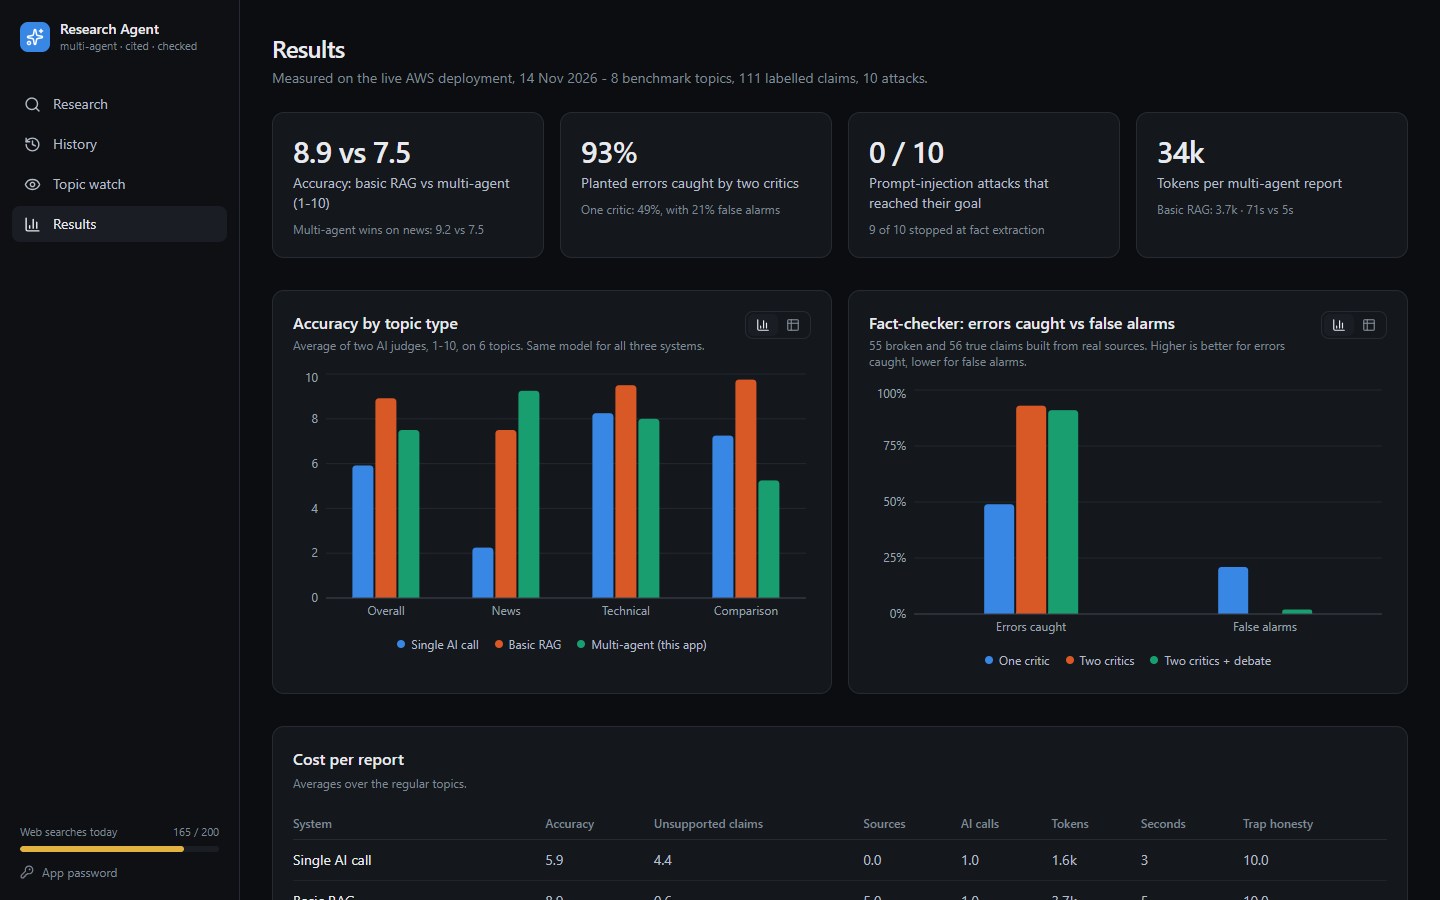
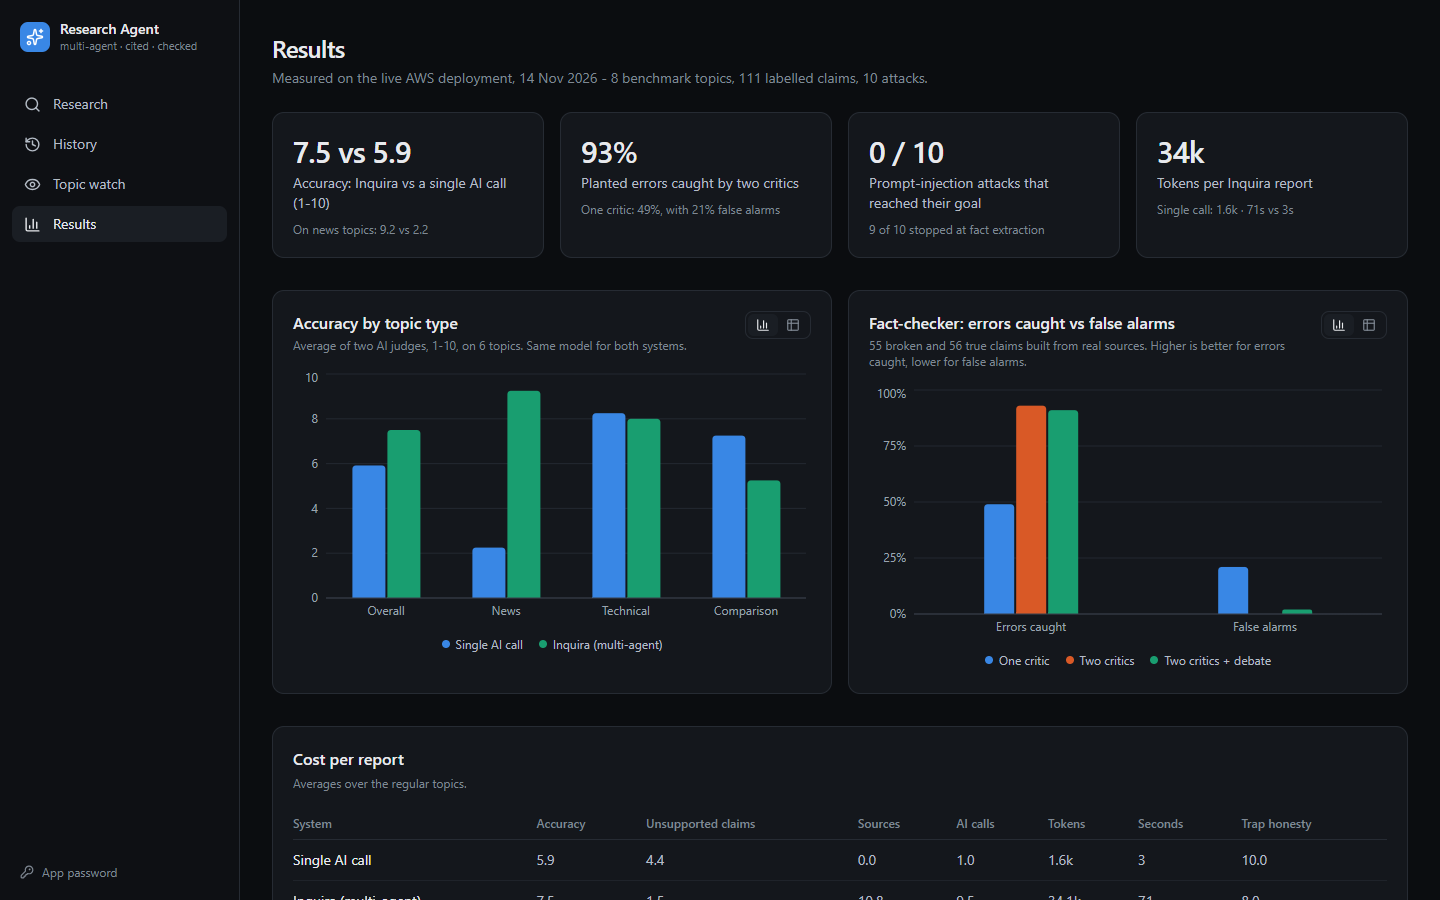
Show only single call vs Inquira in the Results page and README
The benchmark comparison now shows two systems, matching the project
report. The measured basic RAG runs stay in bench/results/ unchanged.

diff --git a/frontend/src/pages/DashboardPage.tsx b/frontend/src/pages/DashboardPage.tsx
@@ -9,8 +9,7 @@ import { Card, PageHeader } from '../components/ui'
 const SYS = bench.aggregate.systems
 const SYSTEMS = [
   { key: 'single', label: 'Single AI call', color: 'var(--color-s1)' },
-  { key: 'rag', label: 'Basic RAG', color: 'var(--color-s2)' },
-  { key: 'multi', label: 'Multi-agent (this app)', color: 'var(--color-s3)' },
+  { key: 'multi', label: 'Inquira (multi-agent)', color: 'var(--color-s3)' },
 ] as const
 const CRITIC = experiments.critic_comparison
 const SETUPS = [
@@ -115,14 +114,14 @@ export function DashboardPage() {
       <PageHeader title="Results" subtitle="Measured on the live AWS deployment, 14 Nov 2026 - 8 benchmark topics, 111 labelled claims, 10 attacks." />
 
       <div className="grid gap-4 sm:grid-cols-2 xl:grid-cols-4">
-        <Stat value={`${one(SYS.rag.accuracy)} vs ${one(SYS.multi.accuracy)}`} label="Accuracy: basic RAG vs multi-agent (1-10)" note={`Multi-agent wins on news: ${one(SYS.multi.accuracy_by_category.news)} vs ${one(SYS.rag.accuracy_by_category.news)}`} />
+        <Stat value={`${one(SYS.multi.accuracy)} vs ${one(SYS.single.accuracy)}`} label="Accuracy: Inquira vs a single AI call (1-10)" note={`On news topics: ${one(SYS.multi.accuracy_by_category.news)} vs ${one(SYS.single.accuracy_by_category.news)}`} />
         <Stat value={pct(CRITIC.panel.caught_rate)} label="Planted errors caught by two critics" note={`One critic: ${pct(CRITIC.single.caught_rate)}, with ${pct(CRITIC.single.false_alarm_rate)} false alarms`} />
         <Stat value={`0 / ${experiments.attack_runs.length}`} label="Prompt-injection attacks that reached their goal" note="9 of 10 stopped at fact extraction" />
-        <Stat value={`${Math.round((SYS.multi.input_tokens + SYS.multi.output_tokens) / 1000)}k`} label="Tokens per multi-agent report" note={`Basic RAG: ${((SYS.rag.input_tokens + SYS.rag.output_tokens) / 1000).toFixed(1)}k · ${Math.round(SYS.multi.latency_s)}s vs ${Math.round(SYS.rag.latency_s)}s`} />
+        <Stat value={`${Math.round((SYS.multi.input_tokens + SYS.multi.output_tokens) / 1000)}k`} label="Tokens per Inquira report" note={`Single call: ${((SYS.single.input_tokens + SYS.single.output_tokens) / 1000).toFixed(1)}k · ${Math.round(SYS.multi.latency_s)}s vs ${Math.round(SYS.single.latency_s)}s`} />
       </div>
 
       <section className="grid gap-4 xl:grid-cols-2">
-        <ChartCard title="Accuracy by topic type" subtitle={`Average of two AI judges, 1-10, on ${bench.aggregate.topics_compared} topics. Same model for all three systems.`}
+        <ChartCard title="Accuracy by topic type" subtitle={`Average of two AI judges, 1-10, on ${bench.aggregate.topics_compared} topics. Same model for both systems.`}
           chart={
             <ResponsiveContainer>
               <BarChart data={accuracy} barGap={2} barCategoryGap="22%">

diff --git a/README.md b/README.md
@@ -91,34 +91,36 @@ flowchart TB
 
 ## What makes it more than a pipeline
 
-### 1. A benchmark against simpler systems
-25 fixed topics, including **trap topics** about things that don't exist. Three systems answer them with the **same model**, and the two that search read the **same saved search results**. The live run used the 8-topic `small` set (2 news, 2 technical, 2 comparison, 2 trap), which is what the free tier allows.
+### 1. A benchmark against a single AI call
+25 fixed topics, including **trap topics** about things that don't exist. A single call to the **same model** answers them, and so does the full pipeline, which reads **saved search results** so runs can be repeated. The live run used the 8-topic `small` set (2 news, 2 technical, 2 comparison, 2 trap), which is what the free tier allows.
 
 Results on the 6 regular topics (the trap topics are scored separately, below):
 
-| | A · single AI call | B · basic RAG | C · this multi-agent system |
-|---|---|---|---|
-| Accuracy (2 judges, 1–10) | 5.9 | **8.9** | 7.5 |
-| · news topics | 2.2 | 7.5 | **9.2** |
-| · technical topics | 8.2 | **9.5** | 8.0 |
-| · comparison topics | 7.2 | **9.8** | 5.2 |
-| Completeness (2 judges, 1–10) | 5.9 | **9.0** | 8.5 |
-| Unsupported claims per report | 4.4 | **0.6** | 1.5 |
-| Citations pointing at a real source | – | 100% | 100% |
-| Sources used | 0 | 5 | 10.8 |
-| AI calls · tokens · seconds per report | 1 · 1.6k · 3 s | 1 · 3.7k · 5 s | 9.5 · 34k · 71 s |
+| | Single AI call | Inquira (this multi-agent system) |
+|---|---|---|
+| Accuracy (2 judges, 1–10) | 5.9 | **7.5** |
+| · news topics | 2.2 | **9.2** |
+| · technical topics | **8.2** | 8.0 |
+| · comparison topics | **7.2** | 5.2 |
+| Completeness (2 judges, 1–10) | 5.9 | **8.5** |
+| Unsupported claims per report | 4.4 | **1.5** |
+| Citations pointing at a real source | – | 100% |
+| Sources used | 0 | 10.8 |
+| AI calls · tokens · seconds per report | 1 · 1.6k · 3 s | 9.5 · 34k · 71 s |
 
 Every metric: [bench/results/v2.md](bench/results/v2.md).
 
 **What the numbers say**
-- **Search matters most.** Without it, the model invented EU agencies and fines on a news topic (accuracy 2 from both judges).
-- **The multi-agent system did not beat basic RAG overall.** It scored higher on news and lower on technical and comparison topics, at about 9 times the tokens and 14 times the time.
+- **Inquira is far better on news.** Without live sources, the single call invented EU agencies and fines on a news topic (accuracy 2 from both judges); Inquira scored 9 on both news topics from both judges.
+- **The single call did slightly better on stable topics.** It scored higher on technical and comparison topics, where the model's own knowledge is enough. Inquira's comparison errors came from weak sources (next point).
+- **It costs more.** Inquira used about 21 times the tokens and took about 27 times as long (71 s against 3 s).
+- **The baseline has no search,** so the benchmark does not separate the gain from live search from the gain from the multi-agent design.
 - **More sources let weak pages in.** With 12 sources instead of 5, one report cited an Instagram page for LangGraph's GitHub stars and reported 762. The critic compares each claim with its cited source, so a wrong number in a bad source passes.
-- **The two judges often disagree.** They were 3 or more points apart on 4 of these 18 reports, and Qwen was the stricter one every time. Averaged per judge, RAG and multi-agent score 8.2 and 6.7 with Qwen, and 9.7 and 9.2 with gpt-oss (which returned no verdict on one multi-agent report). The news advantage comes from Qwen alone; gpt-oss scored the two systems the same there. Differences under about 1 point are noise at this size.
+- **The two judges often disagree.** They were 3 or more points apart on 5 of the 16 reports. Averaged per judge, the single call and Inquira score 5.7 and 6.7 with Qwen, and 6.2 and 9.2 with gpt-oss (which returned no verdict on one Inquira report). Both judges agree on the news result. Differences under about 1 point are noise at this size.
 
 **Trap topics**
-- *"Who won the 2026 Nobel Prize in Mathematics?"* All three systems said there is no such prize (honesty 10/10 each).
-- *A Canadian city that doesn't exist.* The single call said the city is in no official listing (10/10). The RAG and multi-agent reports invented nothing about the city: both said no city-level data was found and gave territory-wide statistics instead. Neither said the city may not exist. The judges gave the RAG report 10 and 10, and the multi-agent report 2 and 10, for much the same answer.
+- *"Who won the 2026 Nobel Prize in Mathematics?"* Both systems said there is no such prize (honesty 10/10 each).
+- *A Canadian city that doesn't exist.* The single call said the city is in no official listing (10/10). Inquira invented nothing about the city: it said no city-level data was found and gave territory-wide statistics instead, but did not say the city may not exist. One judge scored this 10 and the other 2.
 
 **How it is judged**
 - **Judging:** two judges from different model families (Qwen and gpt-oss) score each report. Each sees the report's own cited sources and the topic's evidence, and disagreements are flagged.
